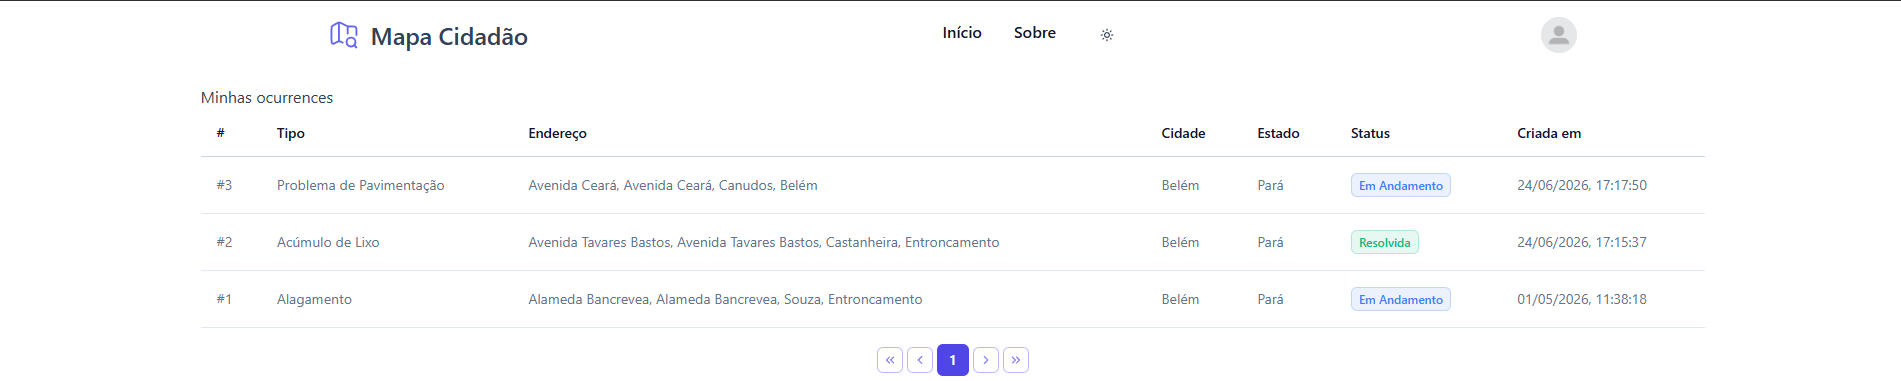
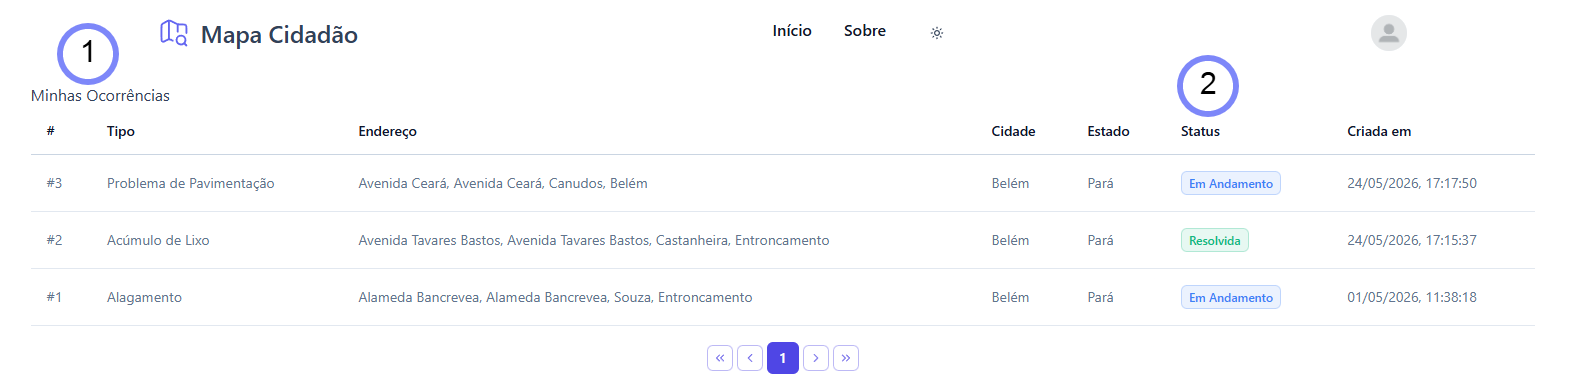
teste

diff --git a/slides/pagina16.html b/slides/pagina16.html
@@ -62,30 +62,29 @@
       }
       .info-grid {
         display: grid;
-        grid-template-columns: repeat(5, 1fr);
-        gap: 16px;
+        grid-template-columns: repeat(2, 1fr);
+        gap: 24px;
         width: 100%;
       }
       .info-item {
-        font-size: 18px;
+        font-size: 22px;
         line-height: 1.25;
         display: flex;
-        flex-direction: column;
         align-items: flex-start;
-        gap: 8px;
+        gap: 12px;
       }
       .number-badge {
         background-color: #3498DB;
         color: white;
-        width: 28px;
-        height: 28px;
+        width: 30px;
+        height: 30px;
         border-radius: 50%;
         display: flex;
         align-items: center;
         justify-content: center;
         font-weight: bold;
         flex-shrink: 0;
-        font-size: 16px;
+        font-size: 18px;
       }
       .highlight {
         font-weight: 700;
@@ -107,23 +106,11 @@
                 <div class="info-grid">
                     <div class="info-item">
                         <div class="number-badge">1</div>
-                        <p><span class="highlight">Acesso autenticado:</span> Área exclusiva para usuários logados acompanharem suas contribuições.</p>
-                    </div>
-                    <div class="info-item">
-                        <div class="number-badge">2</div>
-                        <p><span class="highlight">Minhas ocorrências:</span> Listagem tabular de todos os registros criados pelo cidadão.</p>
-                    </div>
-                    <div class="info-item">
-                        <div class="number-badge">3</div>
                         <p><span class="highlight">Dados exibidos:</span> Tipo, endereço, cidade, estado e data de criação de cada ocorrência.</p>
                     </div>
                     <div class="info-item">
-                        <div class="number-badge">4</div>
+                        <div class="number-badge">2</div>
                         <p><span class="highlight">Status:</span> Indicadores visuais de <span class="highlight">Em Andamento</span> e <span class="highlight">Resolvida</span>.</p>
-                    </div>
-                    <div class="info-item">
-                        <div class="number-badge">5</div>
-                        <p><span class="highlight">Paginação:</span> Navegação entre páginas para consulta de registros anteriores.</p>
                     </div>
                 </div>
             </div>